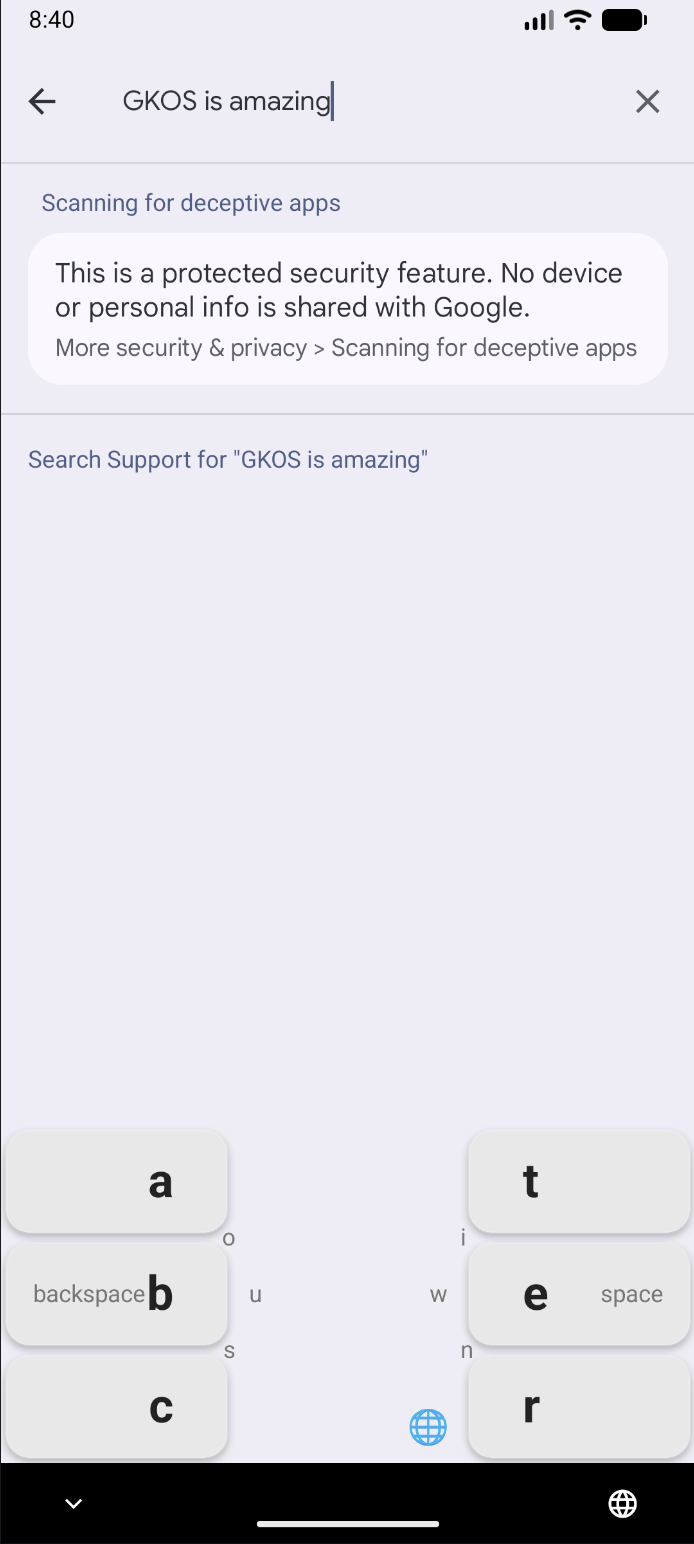
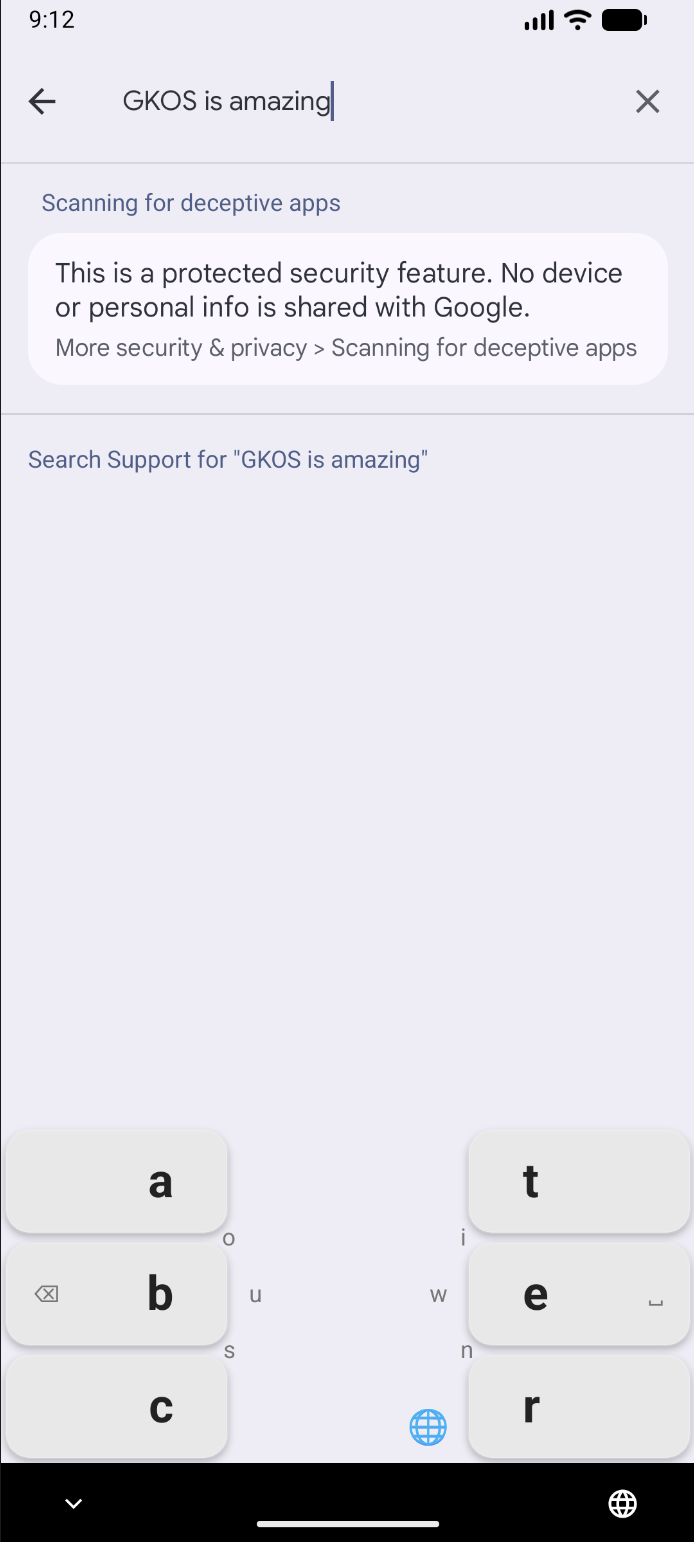
Use symbols for common keys

diff --git a/app/src/main/java/org/bluezoo/gkos/GkosInputMethodService.java b/app/src/main/java/org/bluezoo/gkos/GkosInputMethodService.java
@@ -33,6 +33,8 @@ import android.view.inputmethod.InputMethodSubtype;
 import org.xmlpull.v1.XmlPullParserException;
 
 import java.io.IOException;
+import java.util.HashMap;
+import java.util.Map;
 
 /**
  * GKOS Input Method Service.
@@ -43,6 +45,46 @@ import java.io.IOException;
 public class GkosInputMethodService extends InputMethodService
         implements GkosKeyboardView.ChordOutputHandler, GkosKeyboardView.OutcomeProvider,
                    GkosKeyboardView.GlobeClickListener {
+
+    /** Unicode keyboard symbols for action names. */
+    private static final Map<String, String> ACTION_SYMBOLS = new HashMap<>();
+    static {
+        // Common keys
+        ACTION_SYMBOLS.put("space",         "\u2423");  // ␣  OPEN BOX
+        ACTION_SYMBOLS.put("backspace",     "\u232B");  // ⌫  ERASE TO THE LEFT
+        ACTION_SYMBOLS.put("delete",        "\u2326");  // ⌦  ERASE TO THE RIGHT
+        ACTION_SYMBOLS.put("enter",         "\u23CE");  // ⏎  RETURN SYMBOL
+        ACTION_SYMBOLS.put("tab",           "\u21E5");  // ⇥  RIGHTWARDS ARROW TO BAR
+        ACTION_SYMBOLS.put("esc",           "\u238B");  // ⎋  BROKEN CIRCLE WITH NORTHWEST ARROW
+        // Modifiers
+        ACTION_SYMBOLS.put("shift",         "\u21E7");  // ⇧  UPWARDS WHITE ARROW
+        ACTION_SYMBOLS.put("ctrl",          "\u2303");  // ⌃  UP ARROWHEAD
+        ACTION_SYMBOLS.put("alt",           "\u2325");  // ⌥  OPTION KEY
+        ACTION_SYMBOLS.put("mode_toggle",   "\u21C4");  // ⇄  RIGHTWARDS ARROW OVER LEFTWARDS
+        ACTION_SYMBOLS.put("symb",          "#+=");
+        // Arrows
+        ACTION_SYMBOLS.put("UpArrow",       "\u2191");  // ↑
+        ACTION_SYMBOLS.put("DownArrow",     "\u2193");  // ↓
+        ACTION_SYMBOLS.put("LeftArrow",     "\u2190");  // ←
+        ACTION_SYMBOLS.put("RightArrow",    "\u2192");  // →
+        // Page / Home / End
+        ACTION_SYMBOLS.put("PageUp",        "\u21DE");  // ⇞  UPWARDS ARROW WITH DOUBLE STROKE
+        ACTION_SYMBOLS.put("PageDown",      "\u21DF");  // ⇟  DOWNWARDS ARROW WITH DOUBLE STROKE
+        ACTION_SYMBOLS.put("Home",          "\u2196");  // ↖  NORTH WEST ARROW
+        ACTION_SYMBOLS.put("End",           "\u2198");  // ↘  SOUTH EAST ARROW
+        ACTION_SYMBOLS.put("Insert",        "Ins");
+        // Scroll / Pan
+        ACTION_SYMBOLS.put("ScrollUp",      "\u21C8");  // ⇈  UPWARDS PAIRED ARROWS
+        ACTION_SYMBOLS.put("ScrollDown",    "\u21CA");  // ⇊  DOWNWARDS PAIRED ARROWS
+        ACTION_SYMBOLS.put("PanLeft",       "\u21D0");  // ⇐  LEFTWARDS DOUBLE ARROW
+        ACTION_SYMBOLS.put("PanRight",      "\u21D2");  // ⇒  RIGHTWARDS DOUBLE ARROW
+        // Word movement
+        ACTION_SYMBOLS.put("WordLeft",      "\u21E0");  // ⇠  LEFTWARDS DASHED ARROW
+        ACTION_SYMBOLS.put("WordRight",     "\u21E2");  // ⇢  RIGHTWARDS DASHED ARROW
+        // Pan to boundary
+        ACTION_SYMBOLS.put("PanLeftHome",   "\u21E4");  // ⇤  LEFTWARDS ARROW TO BAR
+        ACTION_SYMBOLS.put("PanRightEnd",   "\u21A6");  // ↦  RIGHTWARDS ARROW FROM BAR
+    }
 
     private GkosKeyboardView keyboardView;
     private LayoutEngine layoutEngine;
@@ -123,7 +165,11 @@ public class GkosInputMethodService extends InputMethodService
         if (layoutEngine == null) return null;
         LayoutEngine.ResolveResult r = layoutEngine.resolve(chordBitmask);
         if (r == null) return null;
-        return r.isAction() ? r.action : r.text;
+        if (r.isAction()) {
+            String symbol = ACTION_SYMBOLS.get(r.action);
+            return symbol != null ? symbol : r.action;
+        }
+        return r.text;
     }
 
     @Override
